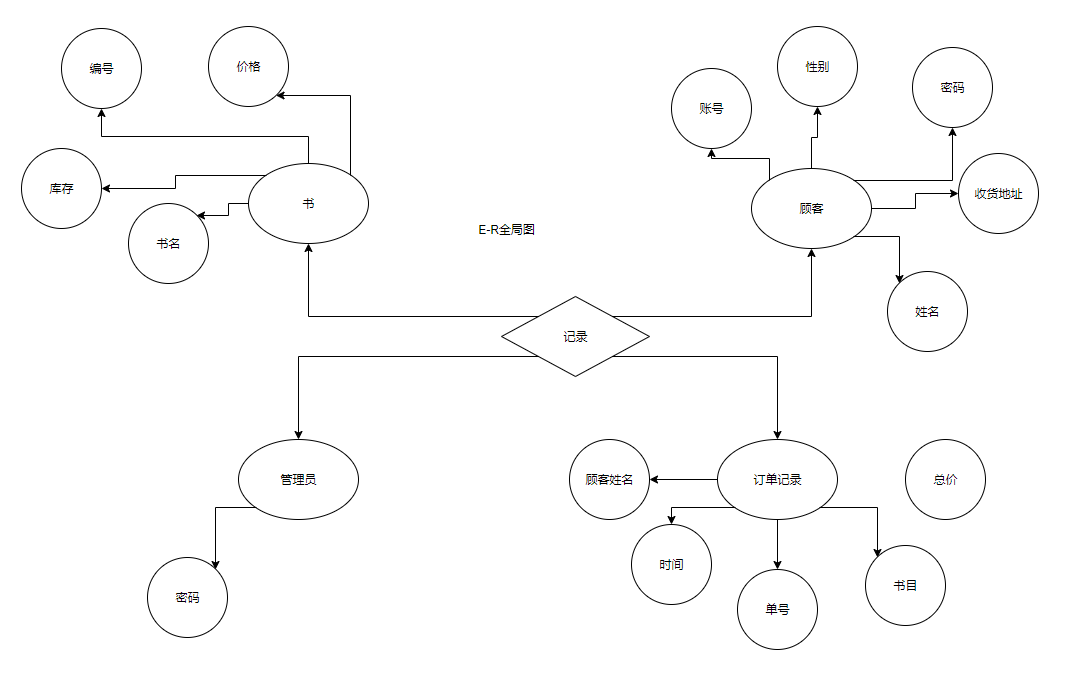
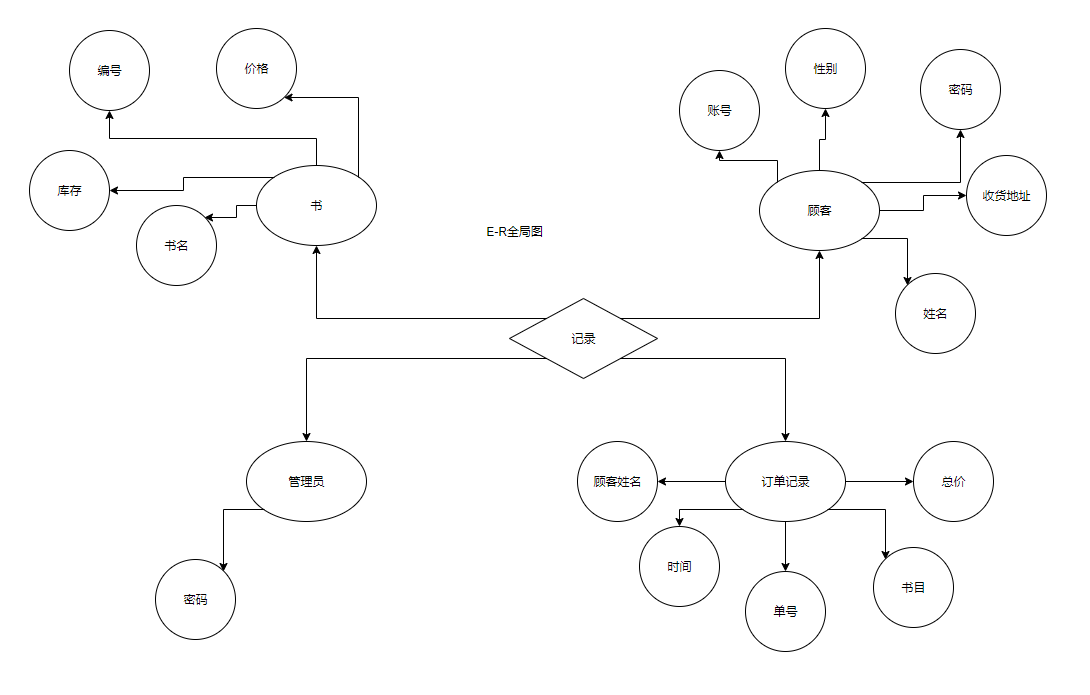
update

diff --git a/README.md b/README.md
@@ -70,11 +70,31 @@ Database principle experiment
 | price | 价格 | double |  |
 | stock | 库存 | int |  |
 
-2. 购买记录表
+2. 订单记录表
 
 | 字段名 | 字段含义 | 数据类型 | 约束设计 |
 | ------ | ------ | ------ | ------ |
-| orNum | 订单号 | Char(10) | 
+| orNum | 订单号 | Char(10) | primary key |
+| name | 顾客姓名 | Varchar(20) |  |
+| time | 时间 | date |  |
+| bookls | 书目 | array |  |
+| pricenum | 总价 | double |  |
+
+3. 顾客表
+
+| 字段名 | 字段含义 | 数据类型 | 约束设计 |
+| ------ | ------ | ------ | ------ |
+| account | 账号 | Char(16) | primary key |
+| gender | 性别 | varchar(2) |  |
+| password | 密码 | char(16) |  |
+| address | 收获地址 | varchar(50) |  |
+| name | 姓名 | varchar(10) |  |
+
+4. 管理员表
+
+| 字段名 | 字段含义 | 数据类型 | 约束设计 |
+| ------ | ------ | ------ | ------ |
+| password | 密码 | char(16) |  |
 
 ## 第3章 系统概念结构设计(E-R图)
 
@@ -96,7 +116,17 @@ Database principle experiment
 
 ### 4.1 逻辑结构（关系数据模型）
 
-### 4.2 规范化设计
+* E-R图向关系模型转化
+  * Book(Bno,title,price,stock)
+  * Record(orNum,name,time,bookls,pricenum)
+  * User(account,password,name,gender,address)
+  * admin(password)
+
+### 4.2 规范化
+
+* 所有表均符合第一范式(1NF)无重复的列
+* 除管理员表外,其余表符合第二范式(2NF)属性完全依赖于主键
+* 所有表符合第三范式(3NF)
 
 ## 第5章 结论
 
